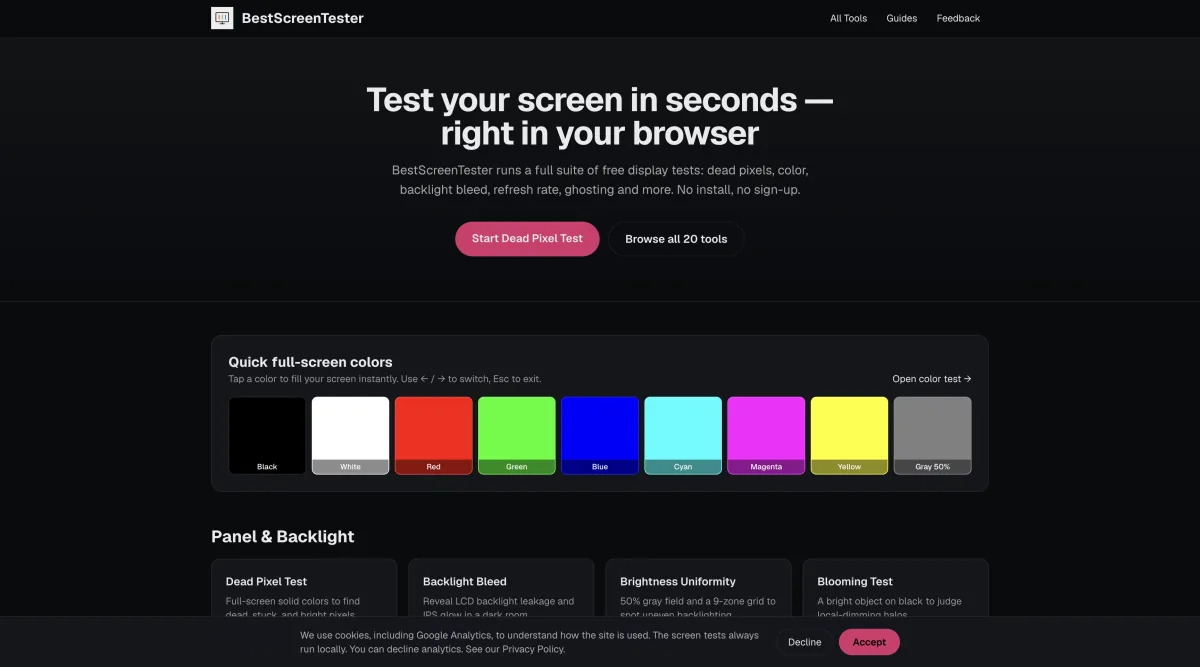
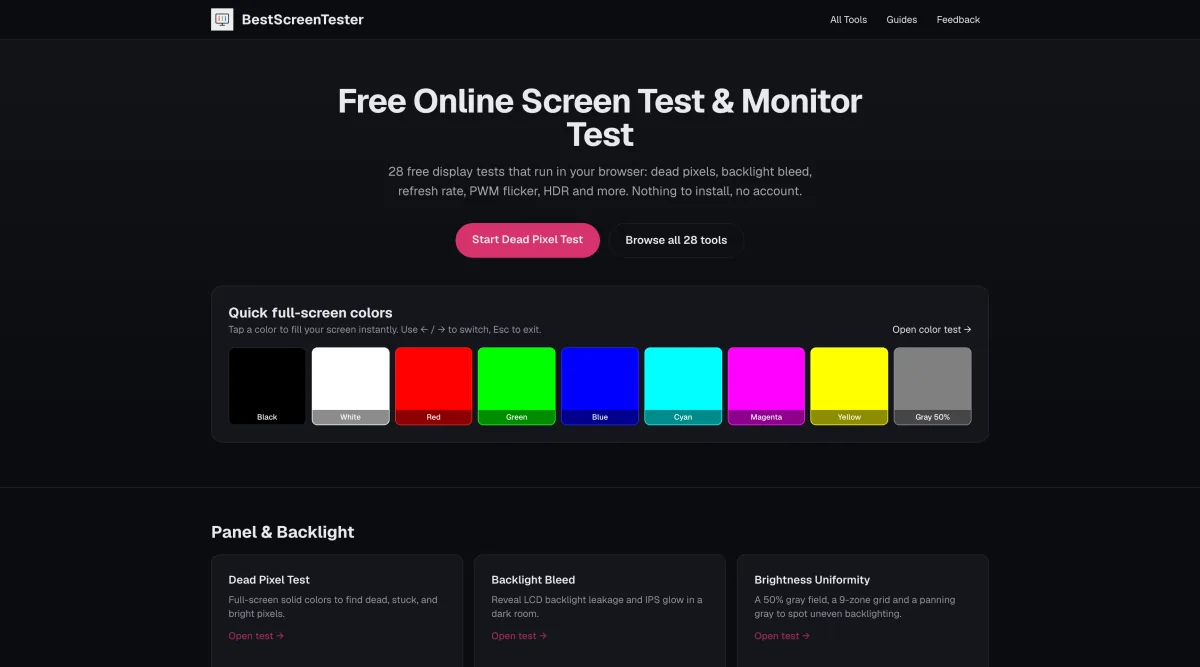
Add Honest MRR as the eighth project; refresh BestScreenTester's screenshot
Honest MRR (honestmrr.com, live 2026-10-07) gets a banded, mockup-left row
after MaxCandela, a ListItem in the JSON-LD (numberOfItems 7 -> 8), and an
entry in the sitemap script's image list. Its hover date is the launch month
(October 2026) at Daniel's request, not its first commit (July 2026) —
CLAUDE.md records the exception so it isn't "fixed" back.

BestScreenTester's homepage was redesigned, so its screenshot is retaken from
the live site, and its copy now says 28 tests (src/lib/tools.ts) instead of
~21. Viewing angle moved out of the color examples — it's a panel test.

diff --git a/index.html b/index.html
@@ -6,7 +6,7 @@
 
     <!-- Primary meta -->
     <title>Daniel Kim — Full-Stack Software Engineer &amp; Product Builder</title>
-    <meta name="description" content="Full-stack engineer shipping real products end to end — a Flutter dating app, three Next.js sites, and a macOS utility. Flutter, Next.js, TypeScript, Supabase, Firebase.">
+    <meta name="description" content="Full-stack engineer shipping real products end to end — a Flutter dating app, a revenue-analytics SaaS, three Next.js sites, and a macOS utility. Flutter, Next.js, TypeScript, Postgres.">
     <meta name="author" content="Daniel Kim">
     <meta name="theme-color" content="#0f1117">
     <link rel="canonical" href="https://nelera.net/">
@@ -31,7 +31,7 @@
     <meta property="og:site_name" content="Daniel Kim">
     <meta property="og:locale" content="en_US">
     <meta property="og:title" content="Daniel Kim — Full-Stack Software Engineer &amp; Product Builder">
-    <meta property="og:description" content="Full-stack engineer shipping real products end to end — a Flutter dating app, three Next.js sites, and a macOS utility.">
+    <meta property="og:description" content="Full-stack engineer shipping real products end to end — a Flutter dating app, a revenue-analytics SaaS, three Next.js sites, and a macOS utility.">
     <meta property="og:url" content="https://nelera.net/">
     <meta property="og:image" content="https://nelera.net/images/og-image.jpg">
     <meta property="og:image:type" content="image/jpeg">
@@ -42,7 +42,7 @@
     <!-- Twitter / X (spec uses name=, not property=) -->
     <meta name="twitter:card" content="summary_large_image">
     <meta name="twitter:title" content="Daniel Kim — Full-Stack Software Engineer &amp; Product Builder">
-    <meta name="twitter:description" content="Full-stack engineer shipping real products end to end — a Flutter dating app, three Next.js sites, and a macOS utility.">
+    <meta name="twitter:description" content="Full-stack engineer shipping real products end to end — a Flutter dating app, a revenue-analytics SaaS, three Next.js sites, and a macOS utility.">
     <meta name="twitter:image" content="https://nelera.net/images/og-image.jpg">
     <meta name="twitter:image:alt" content="Daniel Kim's portfolio homepage, showing the hero section and tech stack.">
 
@@ -125,8 +125,8 @@
           "@type": "ItemList",
           "@id": "https://nelera.net/#projects",
           "name": "Featured projects",
-          "description": "Seven products Daniel Kim designed, built, shipped, and operates.",
-          "numberOfItems": 7,
+          "description": "Eight products Daniel Kim designed, built, shipped, and operates.",
+          "numberOfItems": 8,
           "itemListOrder": "https://schema.org/ItemListOrderAscending",
           "itemListElement": [
             {
@@ -205,7 +205,7 @@
                 "applicationCategory": "UtilitiesApplication",
                 "operatingSystem": "Web browser",
                 "image": "https://nelera.net/images/bestscreentester_image.webp",
-                "description": "About 21 free, browser-based screen tests across panel and backlight, color and calibration, motion and timing, plus fun utilities. Fully static and 100% client-side.",
+                "description": "28 free, browser-based screen tests across panel and backlight, color and calibration, motion and timing, plus fun utilities. Fully static and 100% client-side.",
                 "author": { "@id": "https://nelera.net/#person" }
               }
             },
@@ -220,6 +220,20 @@
                 "operatingSystem": "macOS",
                 "image": "https://nelera.net/images/maxcandela_image.webp",
                 "description": "A focused macOS menu-bar utility that unlocks the extra brightness built into MacBook Pro XDR displays with one click.",
+                "author": { "@id": "https://nelera.net/#person" }
+              }
+            },
+            {
+              "@type": "ListItem",
+              "position": 8,
+              "item": {
+                "@type": "WebApplication",
+                "name": "Honest MRR",
+                "url": "https://honestmrr.com",
+                "applicationCategory": "BusinessApplication",
+                "operatingSystem": "Web browser",
+                "image": "https://nelera.net/images/honestmrr_image.webp",
+                "description": "A multi-tenant SaaS that computes auditable MRR, churn, LTV, and cohorts from Stripe, Paddle, RevenueCat, and six more billing providers, on an append-only ledger that traces every figure back to the provider's own record.",
                 "author": { "@id": "https://nelera.net/#person" }
               }
             }
@@ -349,7 +363,7 @@
         <section id="projects">
             <div class="section-head">
                 <h2>Featured projects</h2>
-                <p>Seven products I designed, built, shipped, and operate — including this site.</p>
+                <p>Eight products I designed, built, shipped, and operate — including this site.</p>
                 <div class="filter-group" aria-label="Filter projects by category">
                     <button class="filter-btn active" data-filter="all">All</button>
                     <button class="filter-btn" data-filter="mobile">Mobile</button>
@@ -474,7 +488,7 @@
                 <div class="feature-text">
                     <span class="eyebrow">Project · Live</span>
                     <h2>BestScreenTester — A full suite of browser screen tests</h2>
-                    <p>~21 free, browser-based screen tests across four categories — panel &amp; backlight (dead pixel, backlight bleed, burn-in), color &amp; calibration (greyscale, gradient, gamma, viewing angle), motion &amp; timing (refresh rate, ghosting, screen tearing), and fun utilities (fake broken screen, boot screen, screensaver) — plus a library of guides. Fully static and 100% client-side using the Fullscreen API, Wake Lock, and Canvas. No accounts, no backend.</p>
+                    <p>28 free, browser-based screen tests across four categories — panel &amp; backlight (dead pixel, backlight bleed, burn-in, PWM flicker), color &amp; calibration (greyscale, gradient, gamma, HDR), motion &amp; timing (refresh rate, ghosting, screen tearing), and fun utilities (fake broken screen, boot screen, screensaver) — plus a library of guides. Fully static and 100% client-side using the Fullscreen API, Wake Lock, and Canvas. No accounts, no backend.</p>
                     <div class="tag-list">
                         <span class="tag">Next.js 16</span>
                         <span class="tag">TypeScript</span>
@@ -508,6 +522,31 @@
                     <p style="margin-top:16px;"><a href="https://maxcandela.com" class="btn btn-secondary">Visit maxcandela.com →</a></p>
                 </div>
                 <div class="mockup"><img src="images/maxcandela_image.webp" alt="MaxCandela product page for the macOS menu-bar XDR display brightness utility" class="mockup-img" loading="lazy" decoding="async" width="1200" height="669"><span class="mockup-date">Created: July 2026</span></div>
+            </div>
+        </section>
+
+        <section class="banded" data-category="web">
+            <!-- Honest MRR -->
+            <div class="feature-row">
+                <div class="mockup"><img src="images/honestmrr_image.webp" alt="Honest MRR landing page with the headline &quot;MRR you can defend&quot; above a preview of the revenue overview dashboard" class="mockup-img" loading="lazy" decoding="async" width="1200" height="667"><span class="mockup-date">Created: October 2026</span></div>
+                <div class="feature-text">
+                    <span class="eyebrow">Project · Live · SaaS</span>
+                    <h2>Honest MRR — Revenue metrics you can audit</h2>
+                    <p>A multi-tenant SaaS that connects to a founder's billing providers — Stripe, Paddle, RevenueCat, and six more — and reports MRR, churn, LTV, and cohort retention. Every number is built on an append-only ledger and traces back to the verbatim provider record, which is hash-chained at ingest so tampering is detectable. Beyond subscriptions, it reconciles App Store and Google Play payouts, pulls ad spend over OAuth for CAC and payback, and tracks operating costs for burn and runway. Postgres row-level security isolates each tenant. Unit, database-integration, and Playwright end-to-end suites run in CI, and the whole stack is self-hosted with Docker.</p>
+                    <div class="tag-list">
+                        <span class="tag">Next.js 16</span>
+                        <span class="tag">TypeScript</span>
+                        <span class="tag">Drizzle ORM</span>
+                        <span class="tag">PostgreSQL + RLS</span>
+                        <span class="tag">Better Auth</span>
+                        <span class="tag">Stripe API</span>
+                        <span class="tag">OAuth</span>
+                        <span class="tag">Tailwind CSS v4</span>
+                        <span class="tag">Docker</span>
+                        <span class="tag">Playwright</span>
+                    </div>
+                    <p style="margin-top:16px;"><a href="https://honestmrr.com" class="btn btn-secondary" target="_blank" rel="noopener">Visit honestmrr.com →</a></p>
+                </div>
             </div>
         </section>
 

diff --git a/CLAUDE.md b/CLAUDE.md
@@ -21,7 +21,7 @@ linked from the nav and footer, and `404.html` is the GitHub Pages error page (s
 1. **Nav** — brand, Projects / Stack / Contact anchors, a "Donate" link (to `donate.html`), and the primary "Get in touch" CTA
 2. **Hero** — gradient-text tagline, "View my projects" / "Contact me" buttons, multi-color radial gradient background
 3. **Tech stack** (`#stack`, banded) — 3-column grid of 6 glass cards: Frontend, Mobile, Backend & data, Cloud & services, AI, Design & planning. Each card has its own color accent (`--card-color`), gradient top bar, radial glow, and hover lift.
-4. **Featured projects** (`#projects`) — a category filter bar (All / Mobile / Web / Web3, driven by `data-filter` buttons and `data-category` on each row) above seven alternating feature rows (text + mockup, swapped every other row):
+4. **Featured projects** (`#projects`) — a category filter bar (All / Mobile / Web / Web3, driven by `data-filter` buttons and `data-category` on each row) above eight alternating feature rows (text + mockup, swapped every other row):
    - Geesly (Flutter dating app) — plain
    - BookList4U (Next.js book-series site) — banded
    - NELA (Solana token) — plain
@@ -29,6 +29,7 @@ linked from the nav and footer, and `404.html` is the GitHub Pages error page (s
    - This portfolio — plain
    - BestScreenTester (Next.js screen-test suite) — banded
    - MaxCandela (macOS XDR brightness utility) — plain
+   - Honest MRR (Next.js revenue-analytics SaaS) — banded
 5. **Contact** — radial-glow gradient card with Email / GitHub / LinkedIn buttons
 6. **Footer** — brand, nav + social links (including a Donate link), copyright + email on the bottom row
 
@@ -56,7 +57,7 @@ All three pages carry the same head contract — keep them in sync when you touc
   it; Google still picks a PNG. (`favicon.svg` was committed but linked from nowhere until
   2026-10-01.)
 - Open Graph + Twitter cards, both using `images/og-image.jpg` (1200x630, the size social cards want)
-- JSON-LD: `index.html` has `Person` + `WebSite` + `ProfilePage` + `ItemList` (7 projects);
+- JSON-LD: `index.html` has `Person` + `WebSite` + `ProfilePage` + `ItemList` (8 projects);
   `donate.html` has `WebPage` + `BreadcrumbList`. `404.html` is `noindex` and carries none.
 
 Supporting files: `robots.txt`, `sitemap.xml` (with `<image:image>` entries), and the IndexNow
@@ -85,7 +86,7 @@ Console setup steps that need Daniel's login live in `SEO.md`.
 ## Conventions
 
 - Code is separated into `index.html`, `style.css`, and `script.js`.
-- **Banded sections** — add `class="banded"` to alternate section backgrounds. Currently: Tech stack, BookList4U, CanonTrails, and BestScreenTester are banded. Preserve the every-other-section rhythm when reordering.
+- **Banded sections** — add `class="banded"` to alternate section backgrounds. Currently: Tech stack, BookList4U, CanonTrails, BestScreenTester, and Honest MRR are banded. Preserve the every-other-section rhythm when reordering.
 - **Mockups** use dark gradient backgrounds with warm-toned radial circles. Project screenshots are served as
   1200px WebP from `images/` via `<img class="mockup-img">` inside `.mockup` containers. Full-resolution PNG
   sources live in `images/originals/` and are stripped at deploy — rebuild with
@@ -96,7 +97,9 @@ Console setup steps that need Daniel's login live in `SEO.md`.
 - **Mockup date overlay** — each `.mockup` holds a `<span class="mockup-date">Created: Month Year</span>`
   that fades in on hover. These are **creation** dates, not last-updated: they come from the first commit
   in each project's repo under `~/Codes` (NELA has no repo — its date is the Raydium pair creation shown
-  on DexScreener). Don't hand-edit them to "look recent"; they're a build log, not a changelog.
+  on DexScreener; Honest MRR shows its launch month, October 2026 — live on honestmrr.com 2026-10-07 —
+  at Daniel's request, though its first commit is July 2026). Don't hand-edit them to "look recent";
+  they're a build log, not a changelog.
 - **Tags** use `<span class="tag">`; keep them short (ideally ≤3 words).
 - **Eyebrows** are pill-shaped (gradient bg + border) — use them above every section heading and project title for consistency.
 - Layout collapses 3→2→1 columns at 960px and 760px. Nav links hide below 760px — brand + primary CTA only.
@@ -108,7 +111,7 @@ Console setup steps that need Daniel's login live in `SEO.md`.
 - LinkedIn: https://www.linkedin.com/in/daniel-kim-6991882b3/
 - Email: hello+contact@nelera.net
 - Portfolio: https://nelera.net
-- Projects: geesly.net, booklist4u.com, canontrails.com, bestscreentester.com, maxcandela.com, DexScreener page for NELA
+- Projects: geesly.net, booklist4u.com, canontrails.com, bestscreentester.com, maxcandela.com, honestmrr.com, DexScreener page for NELA
 
 If these change, update both the contact section and the footer.
 
@@ -118,7 +121,7 @@ If these change, update both the contact section and the footer.
 1. [x] **PNG favicon** — `favicon-48/96/192.png` + `apple-touch-icon.png`, generated from `images/my_portfolio_logo.png`
 2. [ ] **Resume / CV** — add a downloadable PDF resume and link it from the contact section
 3. [x] **Hero copy** — personalize tagline and description beyond the current placeholder
-4. [x] **Real screenshots** — all seven projects now have screenshots in `images/`
+4. [x] **Real screenshots** — all eight projects now have screenshots in `images/`
 5. [x] **Open Graph meta** — full OG + Twitter cards on all pages, using a 1200x630 `images/og-image.jpg`
 6. [x] **Mobile QA** — test layout on real phones (especially the 760px breakpoint and stack grid collapse)
 7. [x] **Separation of Concerns** — Separated index, css, and js into individual files.

diff --git a/README.md b/README.md
@@ -15,6 +15,7 @@ A few of the projects you'll find on the site:
 - **This portfolio** — The site itself, hand-built and designed from scratch.
 - **BestScreenTester** — A free set of browser-based tools to test your screen for dead pixels, color accuracy, motion, and more. No sign-up needed.
 - **MaxCandela** — A small Mac app that unlocks the extra brightness built into MacBook Pro XDR displays with one click.
+- **Honest MRR** — Revenue analytics for SaaS founders: connect Stripe, Paddle, RevenueCat, and more, and get MRR, churn, and LTV numbers you can trace back to every transaction.
 
 ## Get in touch
 

diff --git a/SEO.md b/SEO.md
@@ -77,7 +77,7 @@ npm run seo:indexnow -- https://nelera.net/donate.html  # just one
 - Social preview — <https://www.opengraph.xyz/url/https%3A%2F%2Fnelera.net%2F>
 - PageSpeed — <https://pagespeed.web.dev/analysis?url=https%3A%2F%2Fnelera.net%2F>
 
-Expected on `/`: `Person`, `WebSite`, `ProfilePage`, `ItemList` (7 projects).
+Expected on `/`: `Person`, `WebSite`, `ProfilePage`, `ItemList` (8 projects).
 Expected on `/donate.html`: `WebPage`, `BreadcrumbList`.
 
 ---
